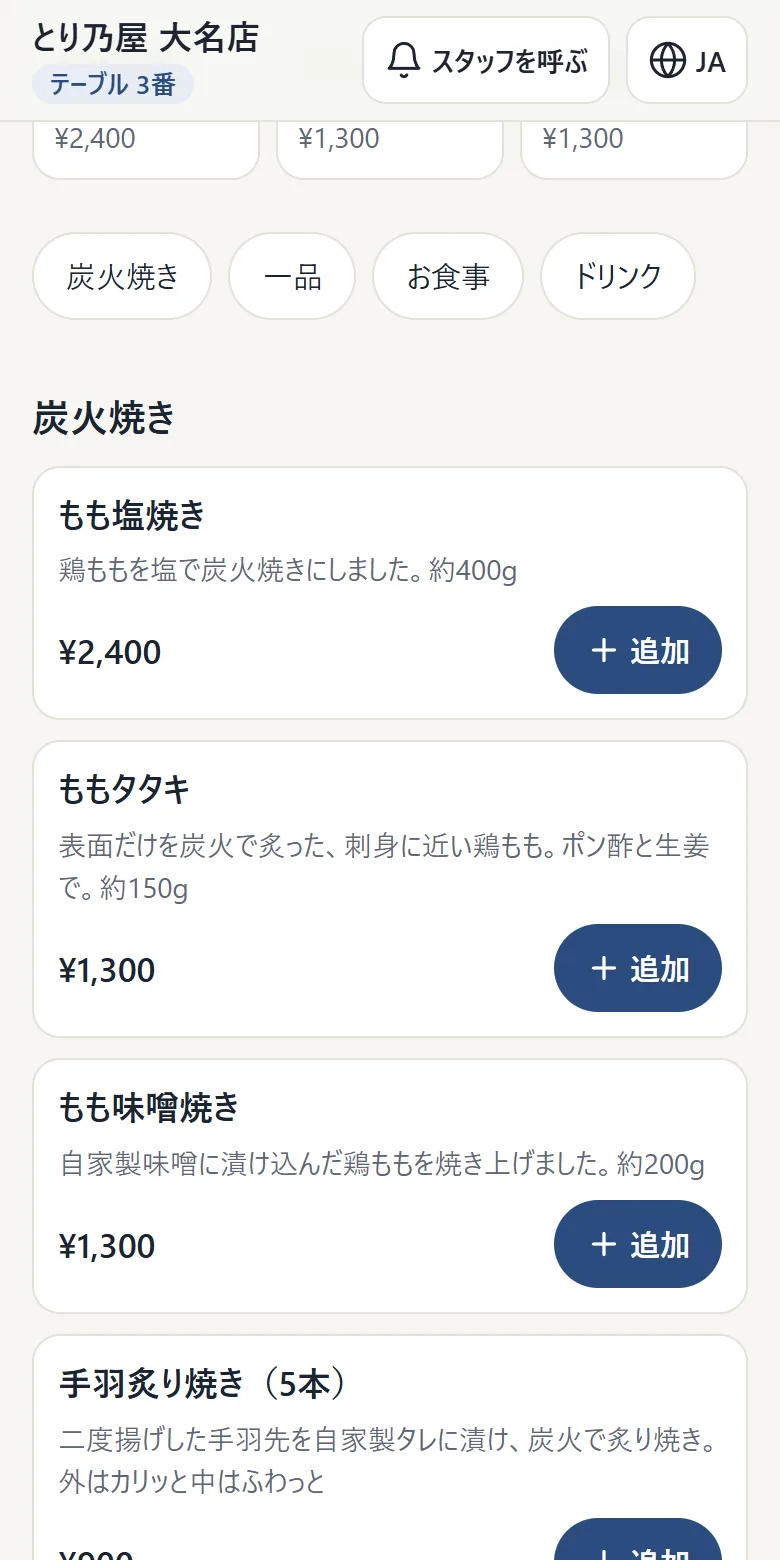
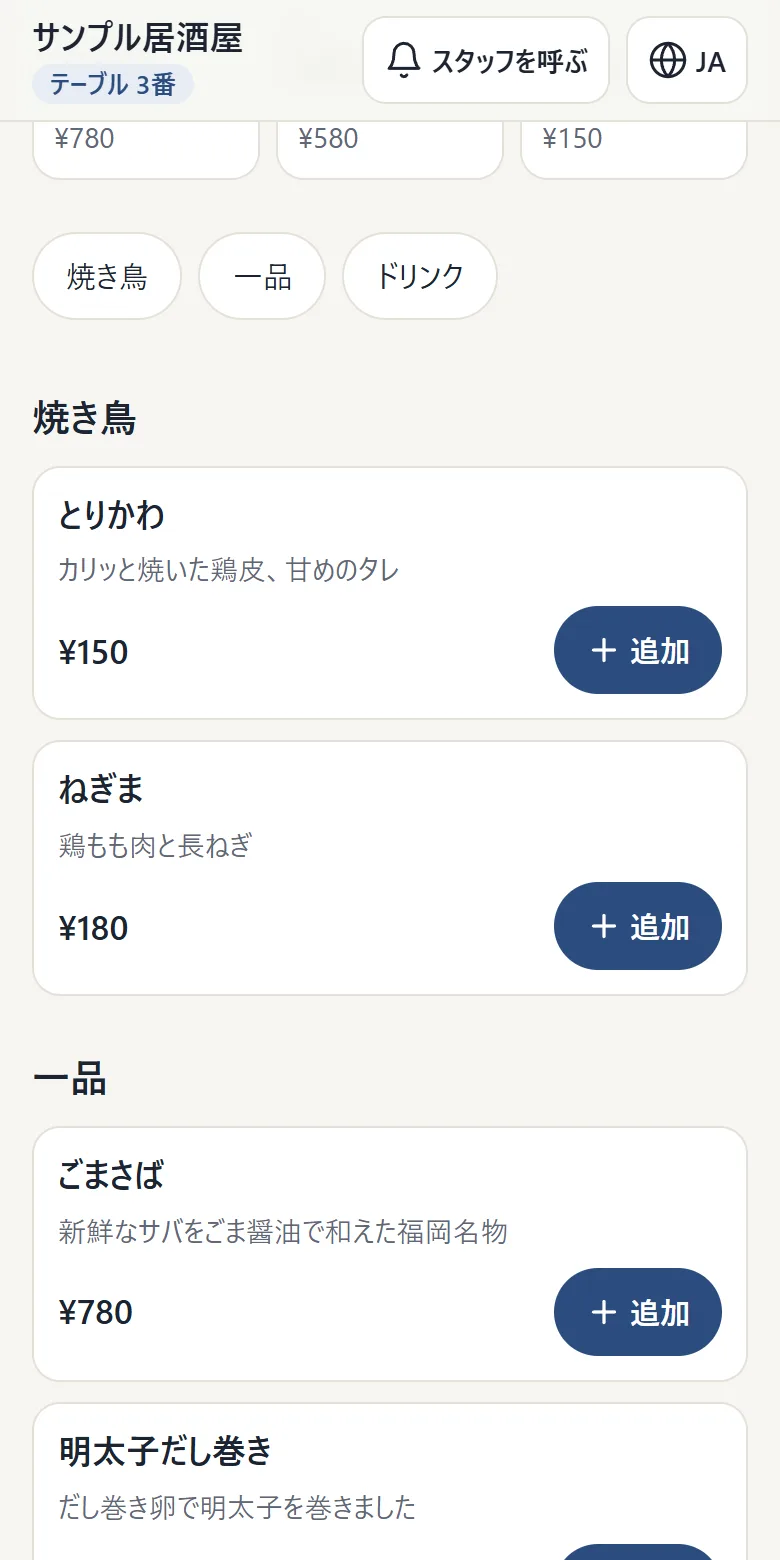
Intro page: use the sample shop for screenshots, demo links and og image

diff --git a/index.html b/index.html
@@ -31,7 +31,7 @@
       <a href="#trial">お試し</a>
       <a href="#contact">お問い合わせ</a>
     </nav>
-    <a class="btn" href="/s/torinoya/?table=3">実際の画面を体験</a>
+    <a class="btn" href="/s/sample/?table=3">実際の画面を体験</a>
   </div>
 </header>
 
@@ -42,7 +42,7 @@
         <h1 id="hero-title">外国のお客様に、<br>読めるメニューを。</h1>
         <p class="lead">紙のメニューはそのまま、QRを置くだけ。注文は日本語の画面でスタッフに届きます。</p>
         <div class="actions">
-          <a class="btn" href="/s/torinoya/?table=3">実際の画面を体験する</a>
+          <a class="btn" href="/s/sample/?table=3">実際の画面を体験する</a>
           <a class="link" href="#how">仕組みを見る</a>
         </div>
         <p class="hero__note">スマートフォンで開くと、お客様と同じ画面を操作できます。</p>
@@ -53,7 +53,7 @@
           <figcaption>お客様の画面（韓国語）</figcaption>
         </figure>
         <figure class="shot">
-          <img src="lp/img/staff.webp" width="780" height="1560" alt="スタッフに見せる日本語の注文画面。テーブル3番、もも塩焼き×1、サントリー生ビール×2、おにぎり×1、合計4点" fetchpriority="high">
+          <img src="lp/img/staff.webp" width="780" height="1560" alt="スタッフに見せる日本語の注文画面。テーブル3番、ごまさば×1、生ビール×2、明太子だし巻き×1、合計4点" fetchpriority="high">
           <figcaption>スタッフに見せる画面（日本語）</figcaption>
         </figure>
       </div>
@@ -91,7 +91,7 @@
       </div>
       <div class="langs">
         <figure class="shot">
-          <img src="lp/img/menu-ko-grill.webp" width="780" height="1560" alt="韓国語表示のメニュー。炭火焼きの料理が説明と価格つきで並ぶ" loading="lazy">
+          <img src="lp/img/menu-ko-grill.webp" width="780" height="1560" alt="韓国語表示のメニュー。焼き鳥の料理が説明と価格つきで並ぶ" loading="lazy">
           <figcaption>韓国語</figcaption>
         </figure>
         <figure class="shot">
@@ -165,7 +165,7 @@
       <div class="close__text">
         <h2 id="contact-title">まずは、画面をさわってみてください</h2>
         <div class="actions">
-          <a class="btn" href="/s/torinoya/?table=3">実際の画面を体験する</a>
+          <a class="btn" href="/s/sample/?table=3">実際の画面を体験する</a>
         </div>
         <dl class="contact">
           <div class="contact__row"><dt>Instagram</dt><dd><a href="https://www.instagram.com/yomeru.menu/" rel="noopener">@yomeru.menu</a>（DM）</dd></div>
@@ -184,12 +184,12 @@
   <div class="container">
     <p class="footer__line">ヨメル（読める）は、外国のお客様向けのQRメニューです。</p>
     <nav class="footer__links" aria-label="フッター">
-      <a href="/s/torinoya/?table=3">実際の画面を体験</a>
+      <a href="/s/sample/?table=3">実際の画面を体験</a>
       <a href="#how">仕組み</a>
       <a href="https://www.instagram.com/yomeru.menu/" rel="noopener">Instagram</a>
       <a href="mailto:yomeru.menu@gmail.com">メール</a>
     </nav>
-    <p class="footer__legal">見本の画面は、公開されている情報をもとに作ったものです。© 2026 ヨメル Yomeru</p>
+    <p class="footer__legal">画面はサンプルです。© 2026 ヨメル Yomeru</p>
   </div>
 </footer>
 

diff --git a/lp/lp.css b/lp/lp.css
@@ -1,5 +1,5 @@
 /* Hallmark · shape: Workbench (draw 2e83a8 dealt Stat-Led; swapped: no real figures to lead with) · genre: editorial · theme: Loom (deal 2/3, seed japanese-service-intro-fukuoka-68db·c5940516·2026-11-18·r0) · job: try · draw: 2e83a8
- * hero: Counter · nav: floating bar (square, Loom) · footer: statement · imagery: the product (real captures of /s/torinoya/) · signature: one order shown twice, the guest's Korean menu beside the Japanese screen the staff reads · loom: ecru, indigo set to the brand navy #2B4C7E, Japanese display in Shippori Mincho behind Caslon
+ * hero: Counter · nav: floating bar (square, Loom) · footer: statement · imagery: the product (real captures of /s/sample/) · signature: one order shown twice, the guest's Korean menu beside the Japanese screen the staff reads · loom: ecru, indigo set to the brand navy #2B4C7E, Japanese display in Shippori Mincho behind Caslon
  * axes: light/roman-serif/cool · posture: committed · contrast: pass · fold: pass · v2.0.0 */
 /* Hallmark · pre-emit critique: P4 H4 E4 S5 R4 V4 · weakest: P, a service page has little to argue; led with the one claim an owner can check in ten seconds (tap the real menu) */
 /* waive 47b: no device frame is drawn; captures sit square with the theme's 8% ink outline */
